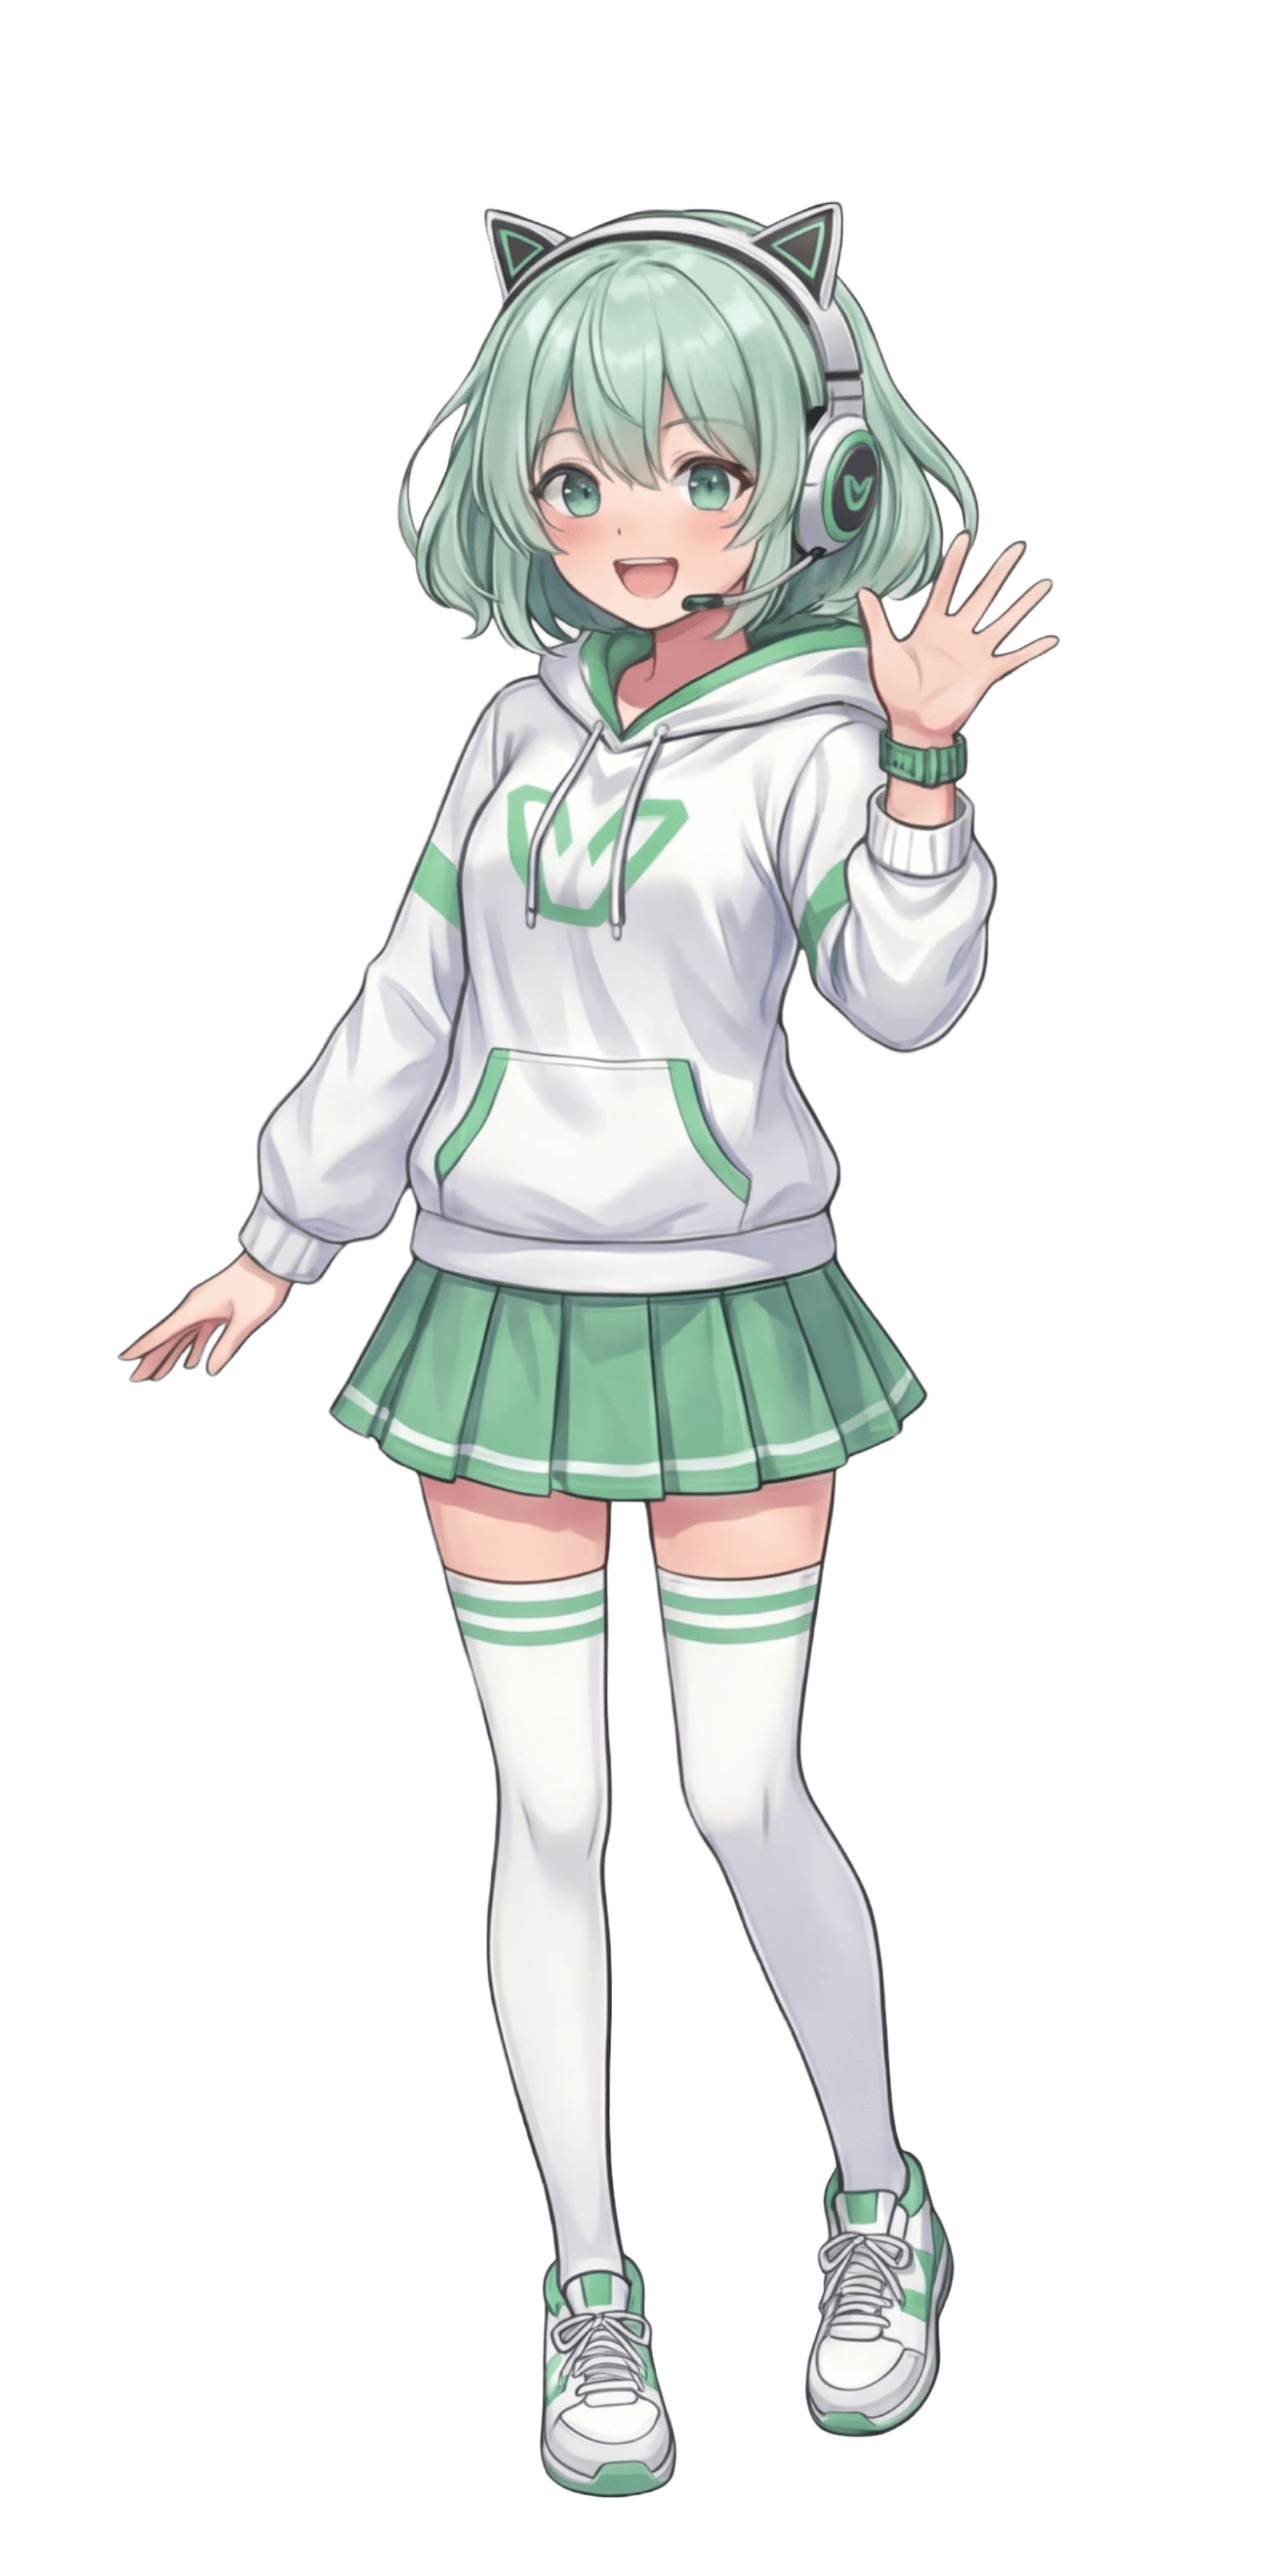
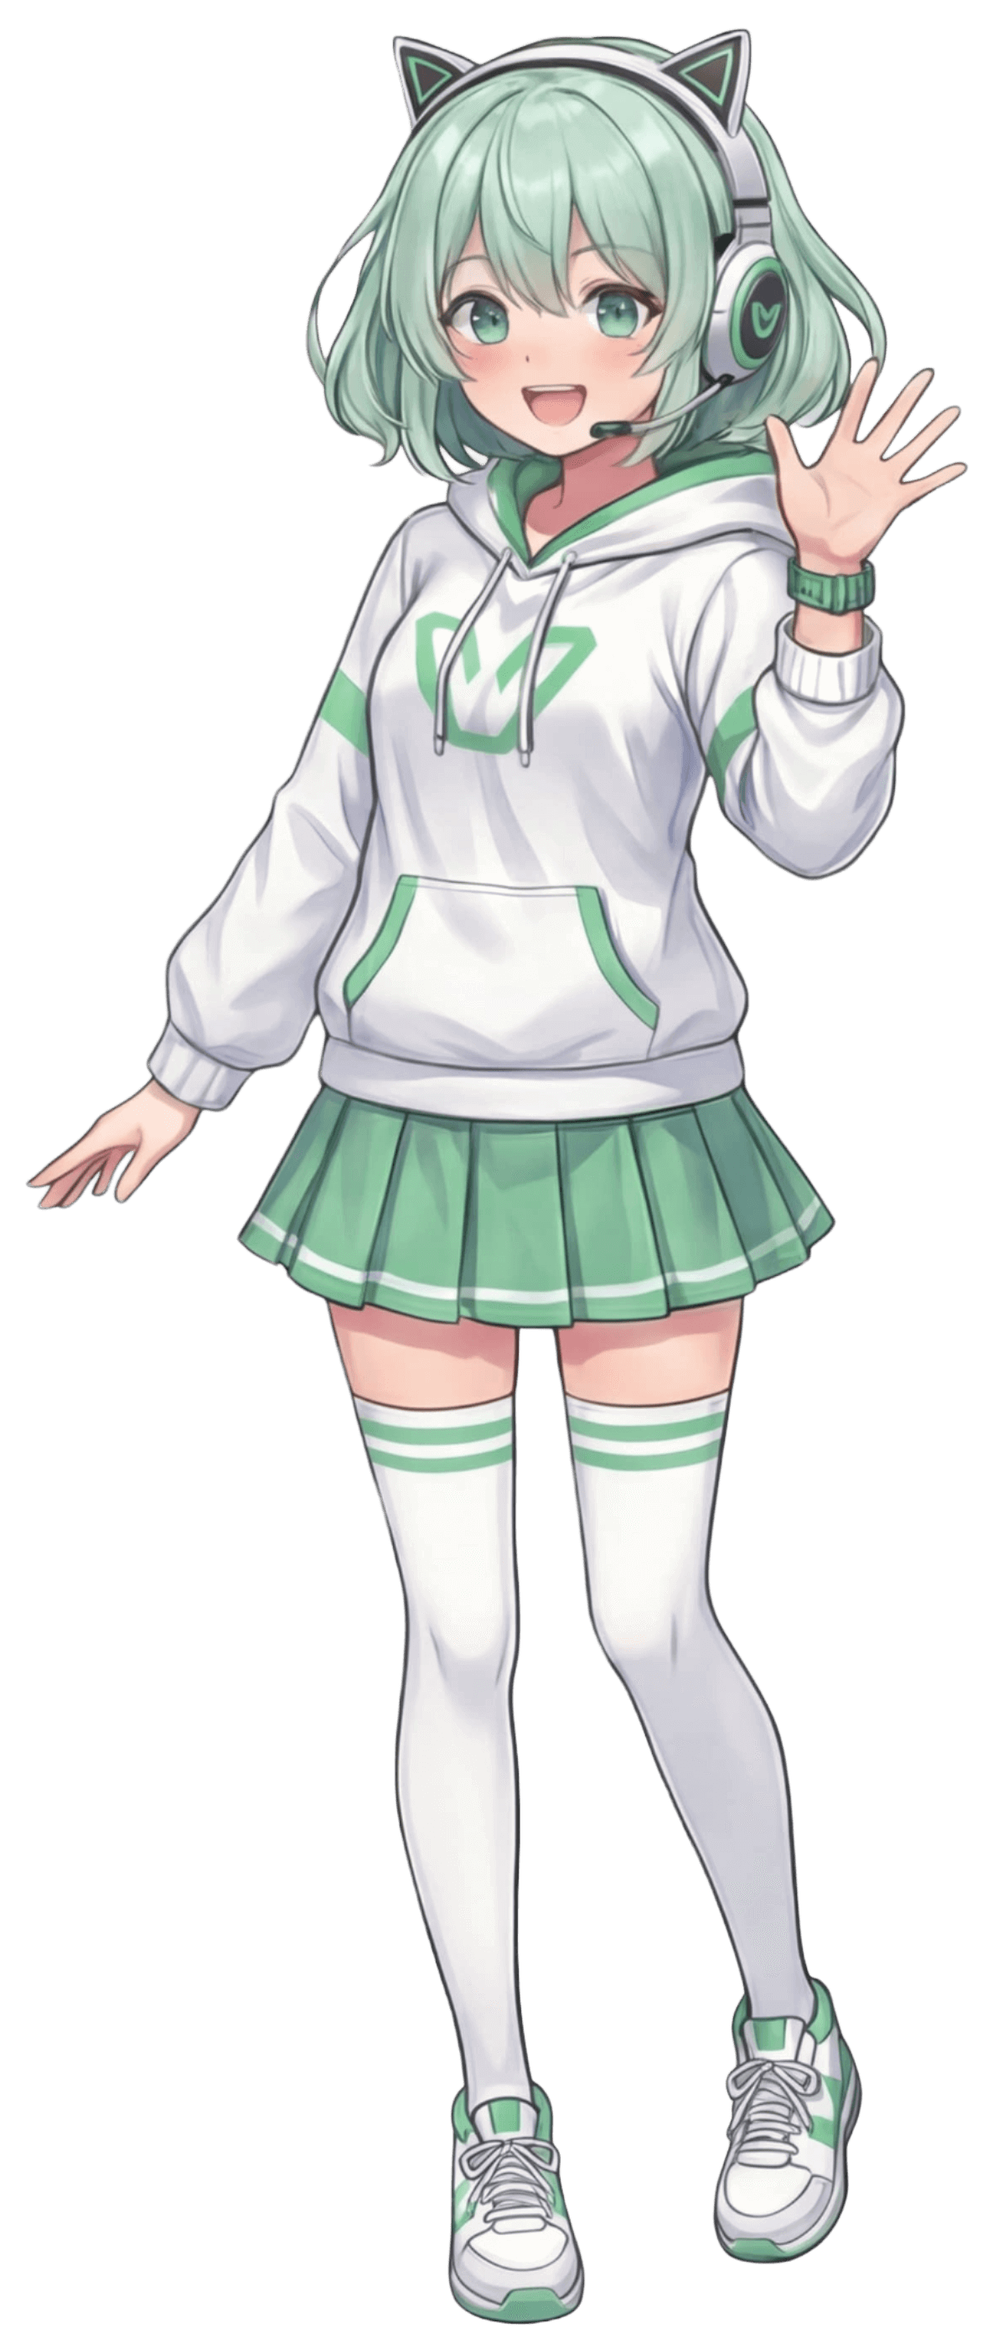
feat: 看板娘调整

diff --git a/src/main.tsx b/src/main.tsx
@@ -76,80 +76,90 @@ const AppRoutes = ({
         isSettingsOpen={isSettingsOpen}
         {...statsBarProps}
       />
-      <div className="relative flex-1 min-h-0 flex justify-center overflow-auto">
+      <div className="relative flex-1 min-h-0 flex justify-center overflow-auto custom-scroll">
         <img
           src="/assets/hello.png"
           alt="看板娘"
-          className="fixed top-0 bottom-0 my-auto h-auto right-[-2vw] w-[20vw] hello"
+          className="fixed top-0 bottom-0 my-auto h-auto right-0 w-[15vw] hello"
         />
-        <Suspense fallback={<Loading />}>
-          <Routes>
-            <Route
-              path="/"
-              element={
-                <div className="flex flex-col w-max">
-                  <main
-                    className="w-(--main-width) max-w-[75vw] h-full flex-grow"
-                    style={{
-                      paddingTop:
-                        selectedHeaderStyle === "levitation" ? headerHeight : 0,
-                      paddingBottom:
-                        selectedFooterStyle === "levitation" ? footerHeight : 0,
-                    }}
-                  >
-                    <HomePage
-                      searchTerm={searchTerm}
-                      setSearchTerm={setSearchTerm}
-                      filteredNodes={filteredNodes}
-                      selectedGroup={selectedGroup}
-                      setSelectedGroup={setSelectedGroup}
-                      stats={stats}
-                      groups={groups}
-                      handleSort={handleSort}
-                    />
-                  </main>
-                  {selectedFooterStyle === "followContent" && (
-                    <Footer isSettingsOpen={isSettingsOpen} ref={null} />
-                  )}
-                </div>
-              }
-            />
-            <Route
-              path="/instance/:uuid"
-              element={
-                <div className="flex flex-col">
-                  <main
-                    className="w-(--main-width) max-w-[75vw] h-full mx-auto flex-1"
-                    style={{
-                      paddingTop:
-                        selectedHeaderStyle === "levitation" ? headerHeight : 0,
-                      paddingBottom:
-                        selectedFooterStyle === "levitation" ? footerHeight : 0,
-                    }}
-                  >
-                    <InstancePage />
-                  </main>
-                  {selectedFooterStyle === "followContent" && (
-                    <Footer isSettingsOpen={isSettingsOpen} ref={null} />
-                  )}
-                </div>
-              }
-            />
-            <Route
-              path="*"
-              element={
-                <div className="flex flex-col">
-                  <main className="w-(--main-width) max-w-[75vw] h-full mx-auto flex-1 ">
-                    <NotFoundPage />
-                  </main>
-                  {selectedFooterStyle === "followContent" && (
-                    <Footer isSettingsOpen={isSettingsOpen} ref={null} />
-                  )}
-                </div>
-              }
-            />
-          </Routes>
-        </Suspense>
+        <div className="bg-[rgba(0,0,0,0.01)] z-2 pl-[2vw] pr-[2vw]">
+          <Suspense fallback={<Loading />}>
+            <Routes>
+              <Route
+                path="/"
+                element={
+                  <div className="flex flex-col w-max">
+                    <main
+                      className="w-(--main-width) max-w-[75vw] min-w-[320px!important] h-full flex-grow"
+                      style={{
+                        paddingTop:
+                          selectedHeaderStyle === "levitation"
+                            ? headerHeight
+                            : 0,
+                        paddingBottom:
+                          selectedFooterStyle === "levitation"
+                            ? footerHeight
+                            : 0,
+                      }}
+                    >
+                      <HomePage
+                        searchTerm={searchTerm}
+                        setSearchTerm={setSearchTerm}
+                        filteredNodes={filteredNodes}
+                        selectedGroup={selectedGroup}
+                        setSelectedGroup={setSelectedGroup}
+                        stats={stats}
+                        groups={groups}
+                        handleSort={handleSort}
+                      />
+                    </main>
+                    {selectedFooterStyle === "followContent" && (
+                      <Footer isSettingsOpen={isSettingsOpen} ref={null} />
+                    )}
+                  </div>
+                }
+              />
+              <Route
+                path="/instance/:uuid"
+                element={
+                  <div className="flex flex-col">
+                    <main
+                      className="w-(--main-width) max-w-[75vw] min-w-[320px!important] h-full mx-auto flex-1"
+                      style={{
+                        paddingTop:
+                          selectedHeaderStyle === "levitation"
+                            ? headerHeight
+                            : 0,
+                        paddingBottom:
+                          selectedFooterStyle === "levitation"
+                            ? footerHeight
+                            : 0,
+                      }}
+                    >
+                      <InstancePage />
+                    </main>
+                    {selectedFooterStyle === "followContent" && (
+                      <Footer isSettingsOpen={isSettingsOpen} ref={null} />
+                    )}
+                  </div>
+                }
+              />
+              <Route
+                path="*"
+                element={
+                  <div className="flex flex-col">
+                    <main className="w-(--main-width) max-w-[75vw] min-w-[320px!important] h-full mx-auto flex-1 ">
+                      <NotFoundPage />
+                    </main>
+                    {selectedFooterStyle === "followContent" && (
+                      <Footer isSettingsOpen={isSettingsOpen} ref={null} />
+                    )}
+                  </div>
+                }
+              />
+            </Routes>
+          </Suspense>
+        </div>
       </div>
     </>
   );
@@ -235,7 +245,7 @@ export const AppContent = () => {
                 />
                 <Suspense fallback={<Loading />}>
                   <div className="flex flex-col">
-                    <main className="w-(--main-width) max-w-[75vw] h-full mx-auto flex-1">
+                    <main className="w-(--main-width) max-w-[75vw] min-w-[320px!important] h-full mx-auto flex-1">
                       <PrivatePage />
                     </main>
                     {selectedFooterStyle === "followContent" && (

diff --git a/src/index.css b/src/index.css
@@ -236,3 +236,27 @@
         display: none;
     }
 }
+
+.custom-scroll {
+  /* 轨道 */
+  &::-webkit-scrollbar {
+    width: 6px;
+  }
+  
+  &::-webkit-scrollbar-track {
+    background: rgba(167, 228, 181, 0.1); /* 极浅的薄荷绿底色 */
+    border-radius: 10px;
+  }
+
+  /* 滑块 */
+  &::-webkit-scrollbar-thumb {
+    background: linear-gradient(180deg, #A7E4B5 0%, #76C893 100%);
+    border-radius: 10px;
+    box-shadow: 0 0 5px rgba(167, 228, 181, 0.5); /* 淡淡的发光效果 */
+  }
+
+  &::-webkit-scrollbar-thumb:hover {
+    background: #76C893;
+    box-shadow: 0 0 8px rgba(118, 200, 147, 0.8);
+  }
+}
